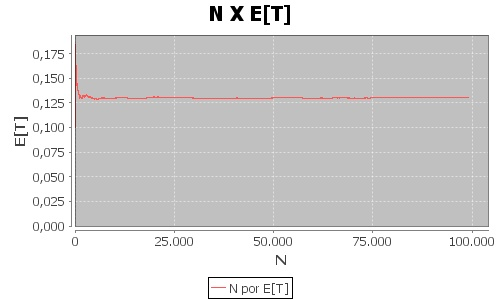
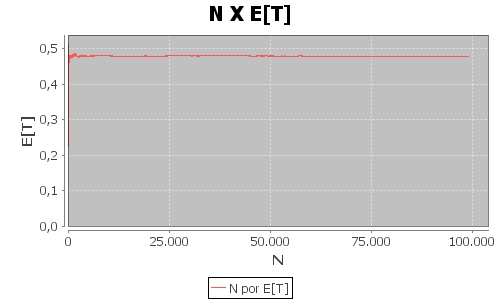
Ajustes na geração das estásticas e gráficos da simulação.

diff --git a/trunk/SimulacaoAD/src/br/ufrj/dcc/ad20122/math/StatisticsSample.java b/trunk/SimulacaoAD/src/br/ufrj/dcc/ad20122/math/StatisticsSample.java
@@ -113,7 +113,8 @@ public class StatisticsSample {
 	private ConfidenceInterval getMeansTConfidenceInterval95(double value) {
 		double significance = 0.95;
 
-		TDistribution tDist = new TDistribution(summaryStatisticsMeansT.getN() - 1);
+		TDistribution tDist = new TDistribution(
+				summaryStatisticsMeansT.getN() - 1);
 		double a = tDist.inverseCumulativeProbability(1.0 - significance / 2);
 		double confidence = a * summaryStatisticsMeansT.getStandardDeviation()
 				/ Math.sqrt(summaryStatisticsMeansT.getN());
@@ -184,8 +185,9 @@ public class StatisticsSample {
 	}
 
 	private String toStringWithSample() {
-		return "" + this.sample + " E[W]:" + this.getWMean() + " E[T]:"
-				+ this.getTMean() + ", Var[T]: " + this.getTVariance()
+		return "" + this.sample + " E[W]:" + this.getWMean() + " E[T] Chart:"
+				+ this.getMeansTMean() + " E[T]:" + this.getTMean()
+				+ ", Var[T]: " + this.getTVariance()
 				+ ", E[T] ConfidenceInterval: "
 				+ this.getMeansTConfidenceInterval95(this.getTMean())
 				+ ", Var[T] ConfidenceInterval: "
@@ -193,12 +195,13 @@ public class StatisticsSample {
 	}
 
 	private String toStringWithoutSample() {
-		return " E[W]:" + this.getWMean() + " E[T]:" + this.getMeansTMean()
-				+ ", Var[T]: " + this.getMeansTVariance()
+		return " E[T] Chart:" + " E[W]:" + this.getWMean()
+				+ this.getMeansTMean() + " E[T]:" + this.getTMean()
+				+ ", Var[T]: " + this.getTVariance()
 				+ ", E[T] ConfidenceInterval: "
-				+ this.getMeansTConfidenceInterval95(this.getMeansTMean())
+				+ this.getMeansTConfidenceInterval95(this.getTMean())
 				+ ", Var[T] ConfidenceInterval: "
-				+ this.getMeansTConfidenceInterval95(this.getMeansTVariance());
+				+ this.getMeansTConfidenceInterval95(this.getTVariance());
 
 	}
 

diff --git a/trunk/SimulacaoAD/src/br/ufrj/dcc/ad20122/Simulations.java b/trunk/SimulacaoAD/src/br/ufrj/dcc/ad20122/Simulations.java
@@ -75,7 +75,7 @@ public class Simulations {
 				}
 
 				User newUser2 = new User(nextService1, service2Exp.sample());
-				nextService2 = nextService1+ newUser2.getServiceTime();
+				nextService2 = nextService1 + newUser2.getServiceTime();
 				queue2.addFirst(newUser2);
 
 				if (queue1.isEmpty()) {
@@ -124,10 +124,10 @@ public class Simulations {
 			timesW.add(time1 + time2);
 		}
 
-		List<Double> timeT1Transient = timeW1.subList(TRANSIENT_VALUE,
+		List<Double> timeT1Transient = timeT1.subList(TRANSIENT_VALUE,
 				timeT1.size());
-		List<Double> timeT2Transient = timeW2.subList(TRANSIENT_VALUE,
-				timeT1.size());
+		List<Double> timeT2Transient = timeT2.subList(TRANSIENT_VALUE,
+				timeT2.size());
 
 		List<Double> timesT = new ArrayList<Double>();
 		for (int i = 0; i < sample.getSampleSize() - TRANSIENT_VALUE; i++) {
@@ -247,10 +247,10 @@ public class Simulations {
 			timesW.add(time1 + time2);
 		}
 
-		List<Double> timeT1Transient = timeW1.subList(TRANSIENT_VALUE,
+		List<Double> timeT1Transient = timeT1.subList(TRANSIENT_VALUE,
 				timeT1.size());
-		List<Double> timeT2Transient = timeW2.subList(TRANSIENT_VALUE,
-				timeT1.size());
+		List<Double> timeT2Transient = timeT2.subList(TRANSIENT_VALUE,
+				timeT2.size());
 
 		List<Double> timesT = new ArrayList<Double>();
 		for (int i = 0; i < sample.getSampleSize() - TRANSIENT_VALUE; i++) {
